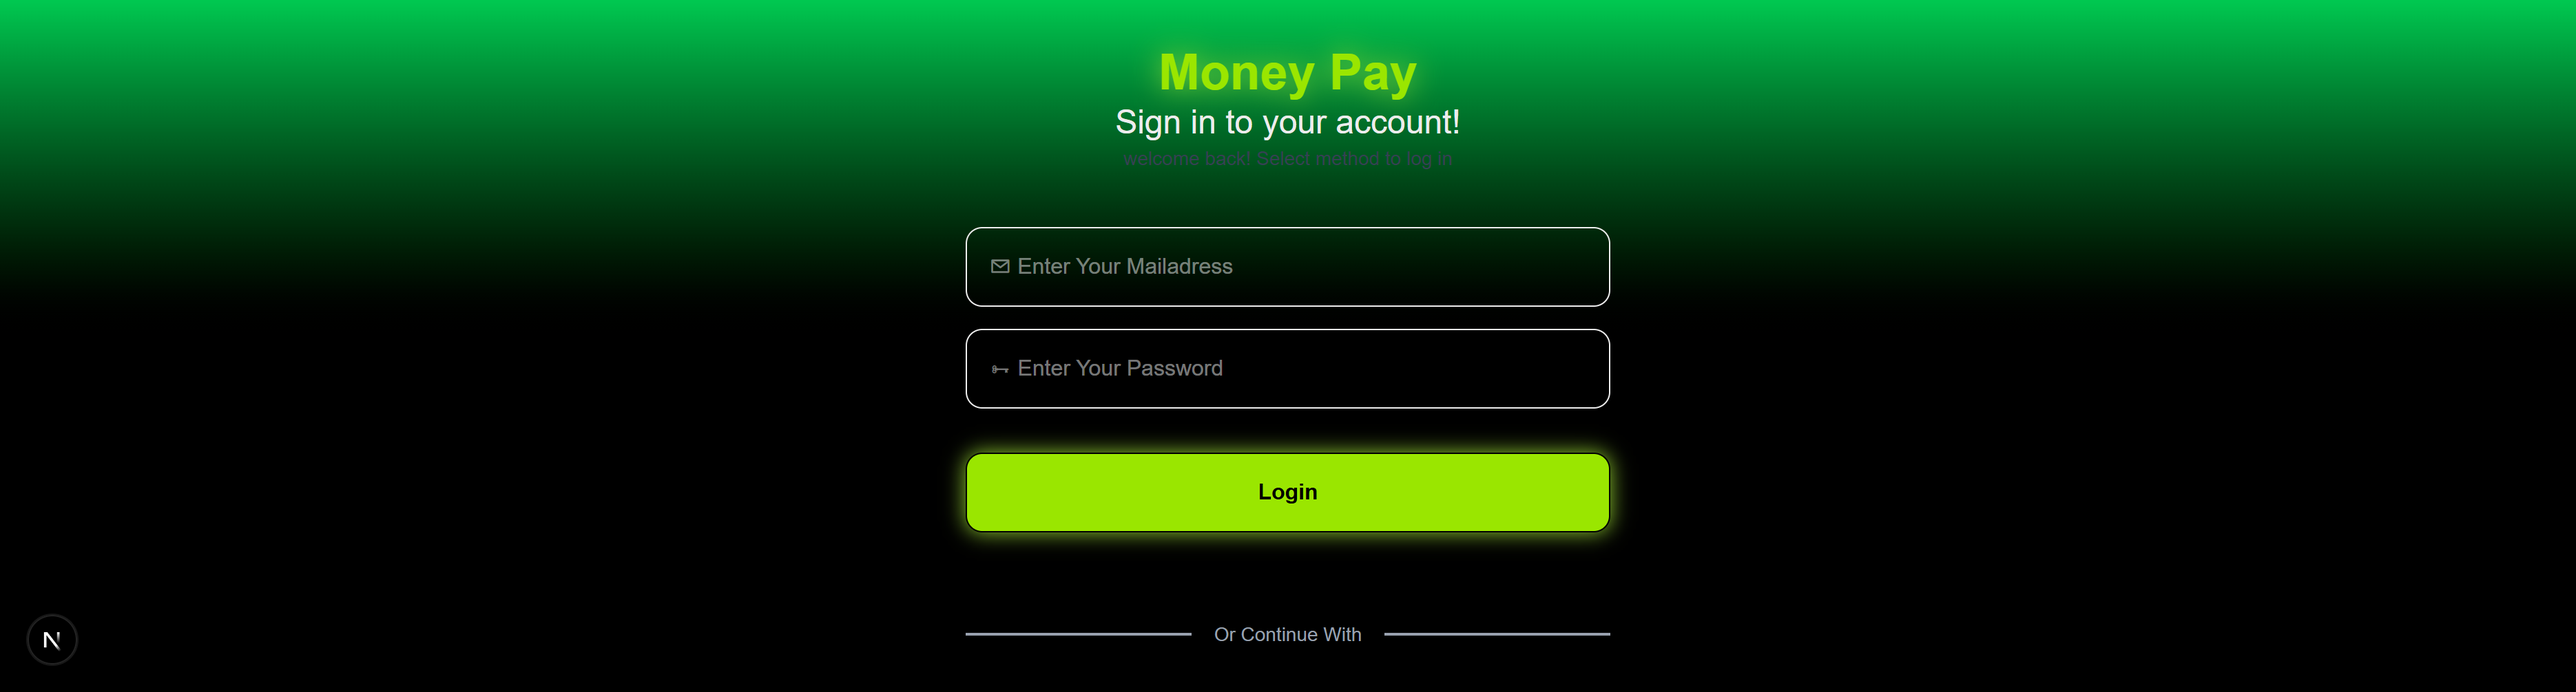
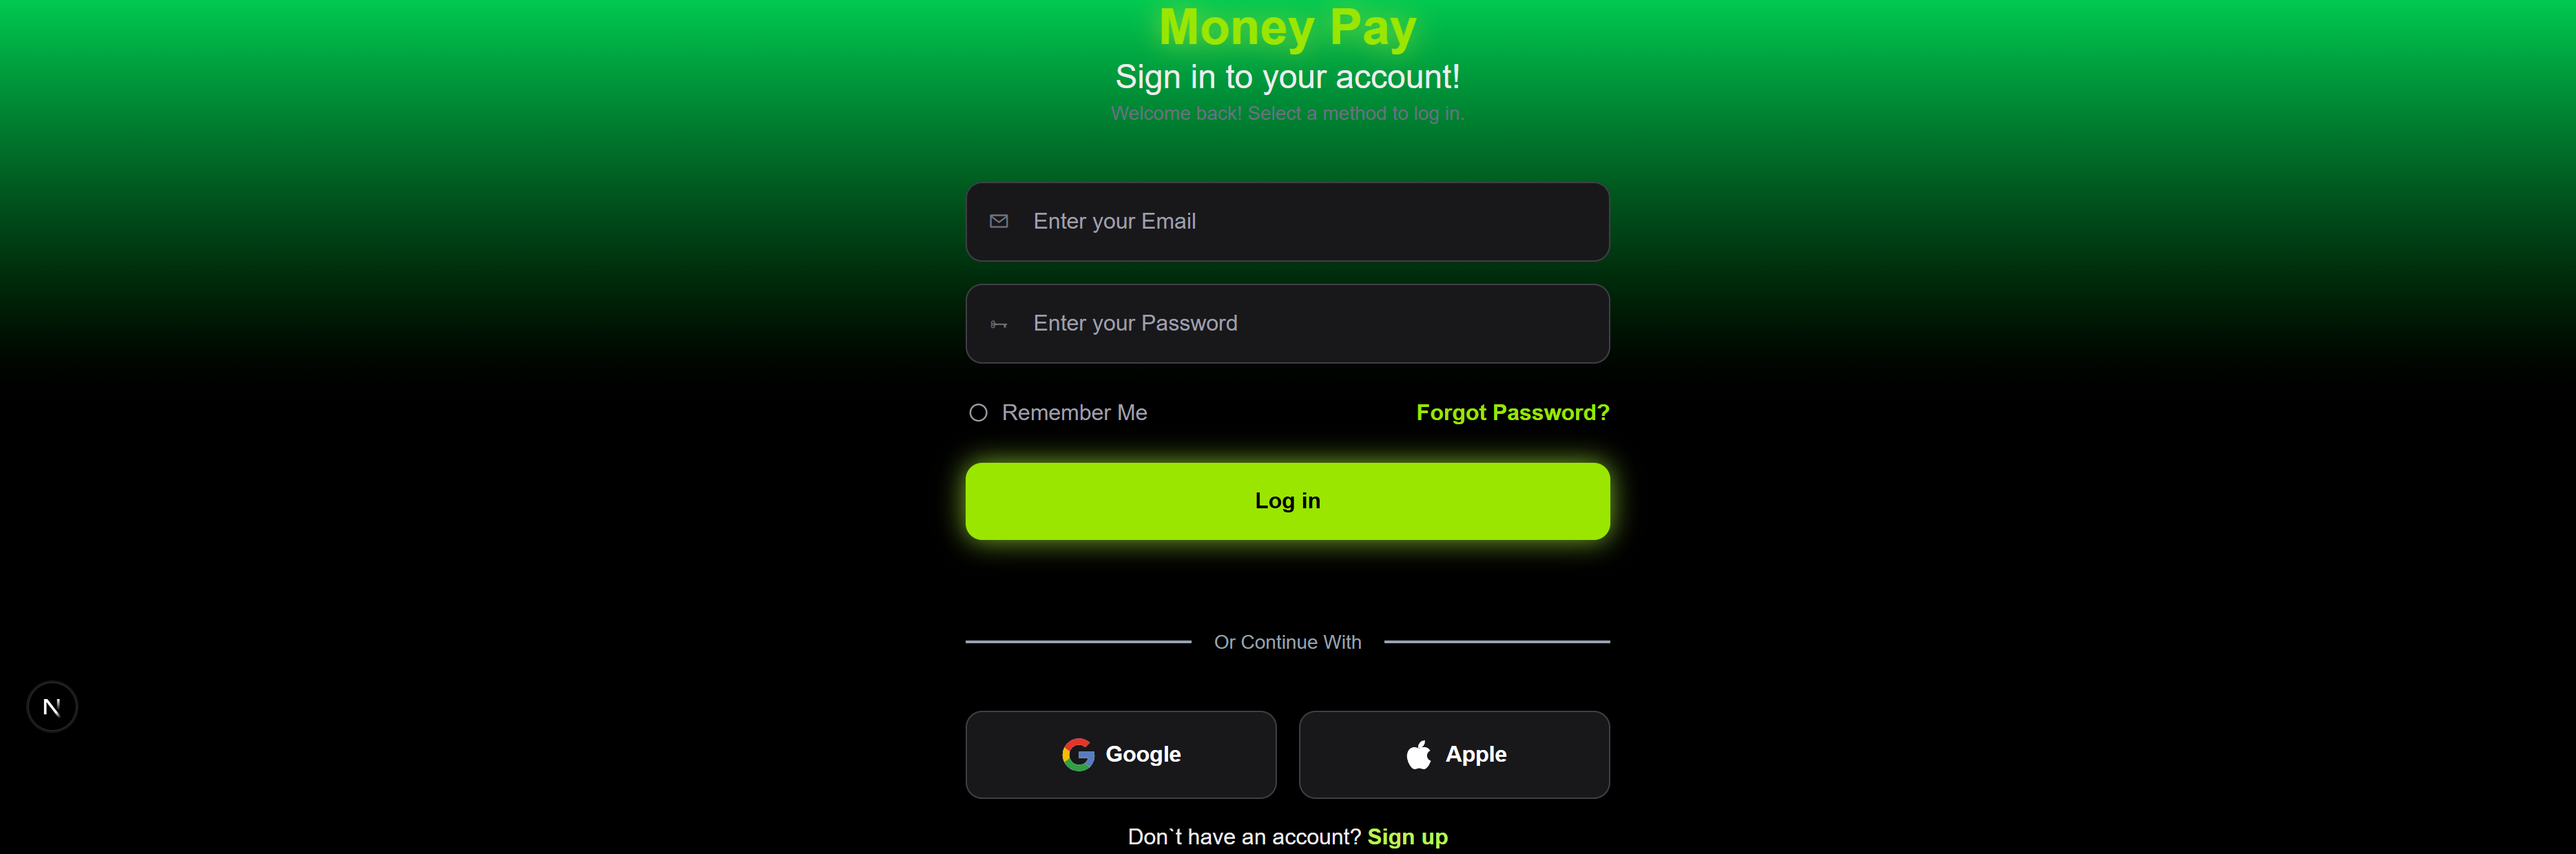
Update README & UIの更新と追加

diff --git a/app/page.tsx b/app/page.tsx
@@ -1,10 +1,13 @@
+import Image from "next/image";
+import Link from "next/link";
+import ToggleCircle from "./components/ToggleCircle";
 
 export default function Home() {
   return (
     <div className="flex flex-col min-h-screen items-center justify-center bg-gradient-to-b to-black via-black from-green-500">
 
+      {/* トップテキスト */}
       <div className="flex flex-col items-center">
-
         <h1 className="
           text-4xl font-bold text-lime-400
           drop-shadow-[0_0_10px_rgba(163,230,53,0.8)]
@@ -18,39 +21,130 @@ export default function Home() {
           Sign in to your account!
         </h2>
         <p
-         className="text-sm text-gray-700"
+         className="text-sm text-gray-500"
         >
-          welcome back! Select method to log in
+          Welcome back! Select a method to log in.
         </p>
       </div>
 
+
        {/* フォーム欄 */}
         <form className="mt-10 flex flex-col gap-4 w-1/4">
-          
-            <input
-              placeholder="✉ Enter Your Mailadress"
-              className="border rounded-xl p-4"
-            />
 
-            <input
-              placeholder="🗝 Enter Your Password"
-              className="border rounded-xl p-4"
-            />
+        {/* Eメール 入力 */}
+        <div className="relative">
+          <input
+            type="email"
+            placeholder="Enter your Email"
+            className="
+              peer
+              w-full
+              pl-12
+              p-4
+              rounded-xl
+              bg-zinc-900
+              border border-zinc-700
+              text-white
+              placeholder:text-zinc-400
+              transition duration-200
+              focus:outline-none
+              focus:border-lime-400
+              focus:ring-2 focus:ring-lime-400/40
+            "
+          />
 
-            <button 
-             type="submit"
+          <span
+            className="
+              pointer-events-none
+              absolute left-4 top-1/2 -translate-y-1/2
+              text-zinc-500
+              transition
+              peer-focus:text-white
+            "
+          >
+            ✉
+          </span>
+        </div>
+
+
+        {/* パスワード 入力 */}
+        <div className="relative">
+          <input
+            type="password"
+            placeholder="Enter your Password"
+            className="
+              peer
+              w-full
+              pl-12
+              p-4
+              rounded-xl
+              bg-zinc-900
+              border border-zinc-700
+              text-white
+              placeholder:text-zinc-400
+              transition duration-200
+              focus:outline-none
+              focus:border-lime-400
+              focus:ring-2 focus:ring-lime-400/40
+            "
+          />
+
+          <span
+            className="
+              pointer-events-none
+              absolute left-4 top-1/2 -translate-y-1/2
+              text-zinc-500
+              transition
+              peer-focus:text-white
+            "
+          >
+            🗝
+          </span>
+        </div>
+
+        {/* ログイン情報保持  use clientを使用*/}
+        <div className="flex justify-between items-center">
+
+          {/* 右側 */}
+            <ToggleCircle/>
+
+        {/* 左側 */}
+          <div>
+            <Link
+             href="/" 
              className="
-             border mt-4 rounded-xl p-4 
-             bg-lime-400 text-black font-semibold
-             shadow-[0_0_15px_rgba(163,230,53,0.9)]
-             hover:shadow-[0_0_25px_rgba(163,230,53,1)]
-             transition
+              text-lime-400
+              font-semibold
              "
-             >
-              Login
-            </button>      
+            >
+             Forgot Password? 
+            </Link>
+          </div>
+        </div>
+
+        {/* ログインボタン */}
+        <button
+         type="submit"
+         className="
+         border p-4 border-none
+         rounded-xl
+         bg-lime-400
+         text-black
+         font-bold
+         transition
+         duration-200
+
+         shadow-[0_0_20px_rgba(163,230,53,0.8)]
+         hover:shadow-[0_0_30px_rgba(163,230,53,1)]
+         hover:brightness-110
+         "
+        >
+          Log in
+        </button>
         </form>
 
+
+        {/* あるいは～ */}
         <div className="flex mt-16 items-center justify-center gap-4 w-1/4">
           <hr className="border border-gray-400 w-1/2" />
 
@@ -62,9 +156,74 @@ export default function Home() {
         </div>
 
 
+        {/* ログイン連携 */}
+        <div className="flex gap-4 mt-10 w-1/4 justify-between">
+
+          {/* Google */}
+          <button
+           className="
+            flex justify-center items-center gap-2
+            w-1/2
+            rounded-xl
+            bg-zinc-900 text-white
+            font-semibold
+            border border-zinc-700
+            shadow-xl
+            transition duration-200
+            hover:bg-zinc-800
+            "
+          >
+          <Image
+          height={24}
+          width={24}
+          alt="apple"
+          src="/google-original.svg"
+          />
+          <span>Google</span>
+          </button>
 
 
+          {/* Apple */}
+          <button
+           className="
+            flex justify-center items-center gap-2 h-16
+            w-1/2
+            rounded-xl
+            bg-zinc-900 text-white
+            font-semibold
+            border border-zinc-700
+            shadow-xl
+            transition duration-200
+            hover:bg-zinc-800
+            "
+          >
+          <Image
+          height={24}
+          width={24}
+          alt="apple"
+          src="/apple-logo-svgrepo-com.svg"
+          />
+          <span>Apple</span>
+          </button>
+        </div>
 
+        {/* サインアップ */}
+        <div className="flex gap-1 mt-4">
+        <p
+        >
+          Don`t have an account?
+        </p>
+        <Link
+         href="/"
+         className="
+          text-lime-300
+          font-semibold
+          hover:text-lime-200
+          "
+         >
+          Sign up
+         </Link>
+        </div>
 
     </div>
   );

diff --git a/app/components/ToggleCircle.tsx b/app/components/ToggleCircle.tsx
@@ -1,0 +1,28 @@
+"use client"
+
+import { useState } from "react"
+
+export default function ToggleCircle() {
+    const [on, setOn] = useState<boolean>(false)
+  return (
+ <div className="flex justify-center items-center gap-2">
+    <button
+     type="button" 
+     onClick={() => setOn(!on)}>
+        {on ? 
+            <p className="text-3xl text-lime-400 mb-1">●</p> 
+            : 
+            <p className="text-3xl text-zinc-400 mb-1">○</p>
+        }
+    </button>
+
+    <p 
+     className="
+     text-zinc-400
+    "
+    >
+     Remember Me
+    </p>
+ </div>
+  )
+}

diff --git a/README.md b/README.md
@@ -1,13 +1,38 @@
 # Login Screen Project
 
 ## 概要
-Next.js + Tailwind CSS で作ったログイン画面の見た目だけのサンプルです。
+Next.js と Tailwind CSS を使用して作成した、  
+**ログイン画面のUI（見た目のみ）を想定したサンプルプロジェクト**です。
+
+実際の認証処理やバックエンド連携は行わず、  
+フロントエンドのUI設計・スタイリングに重点を置いて実装しています。
+
+---
 
 ## 使用技術
-- Next.js 16
+- Next.js 16（App Router）
 - React 19
 - TypeScript
 - Tailwind CSS 4
 
+---
+
+## 実装のポイント
+- グリーン × ブラックを基調とした、金融系サービスを意識したデザイン
+- Tailwind CSS を用いた高速なUI構築
+- フォーカス時にアイコンの色が変化する入力フォーム（`peer` 使用）
+- 「Remember Me」を独立したコンポーネントとして分離し、状態管理を実装
+- hover / transition を活用し、操作感を意識したUI調整
+
+---
+
 ## スクリーンショット
 ![ログイン画面](public/screenshot.png)
+
+---
+
+## 今後の改善予定
+- バリデーションの追加
+- レスポンシブ対応の強化
+- 認証機能（API）との連携
+- バックエンドの機能追加
